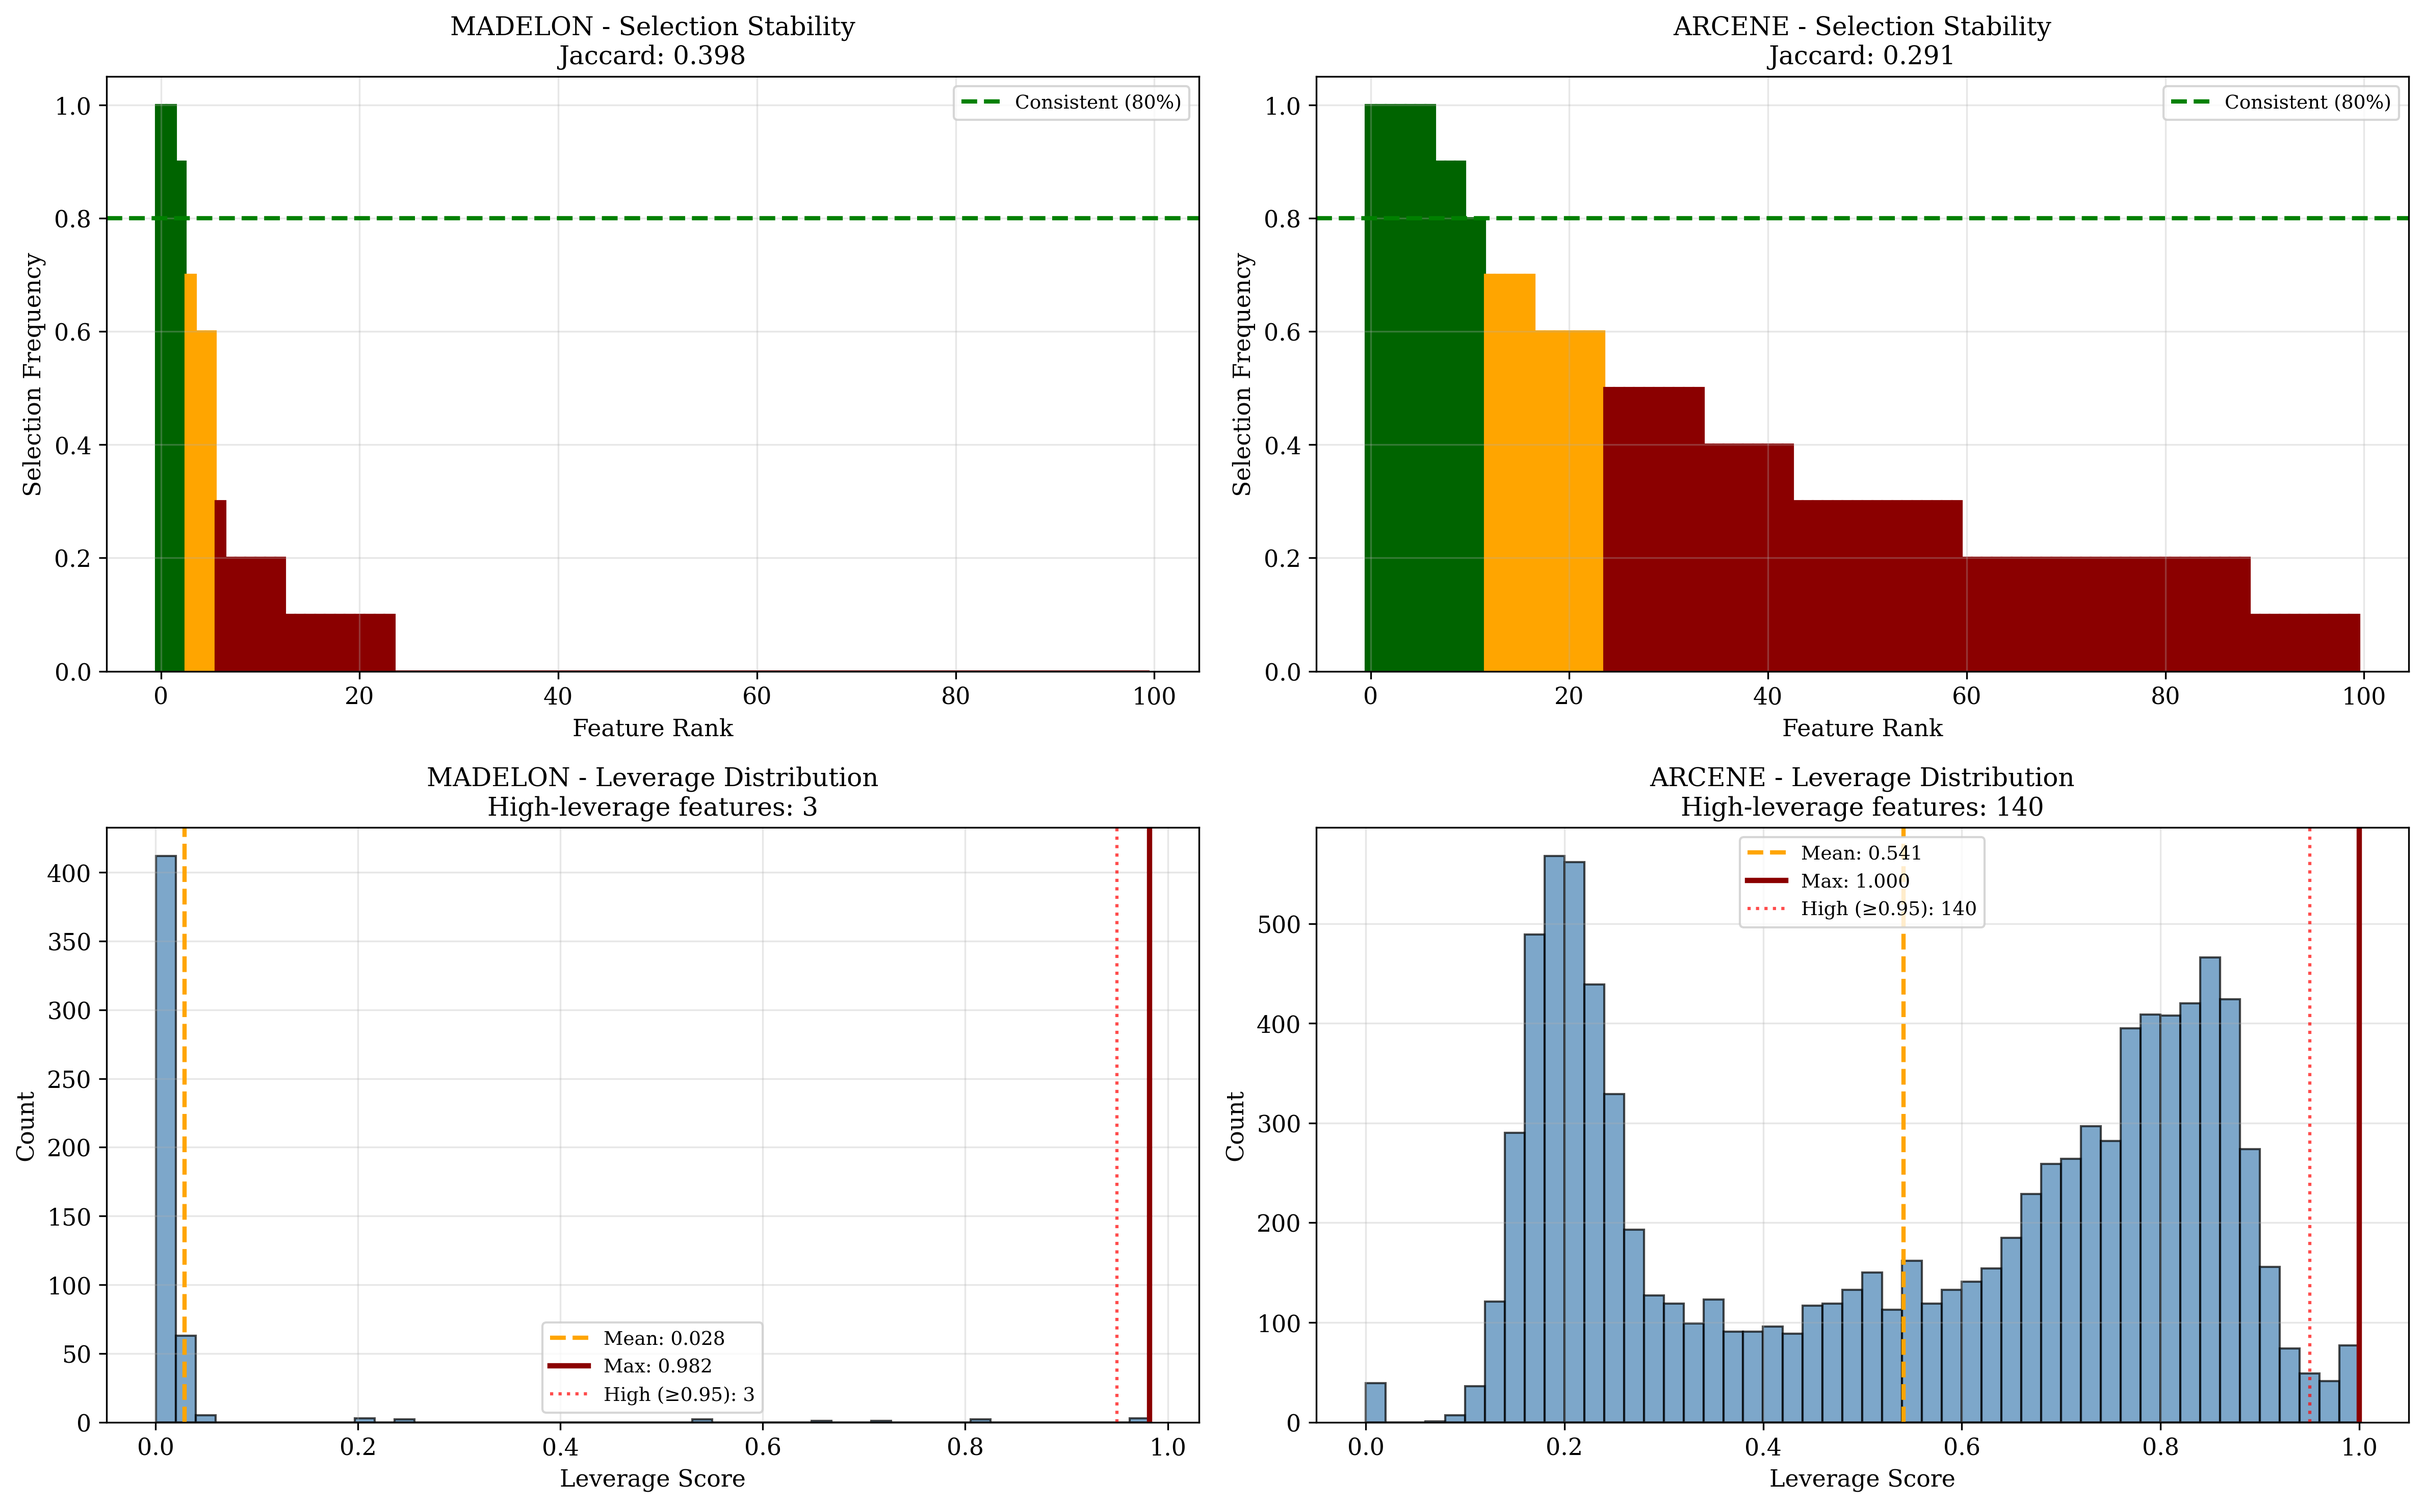
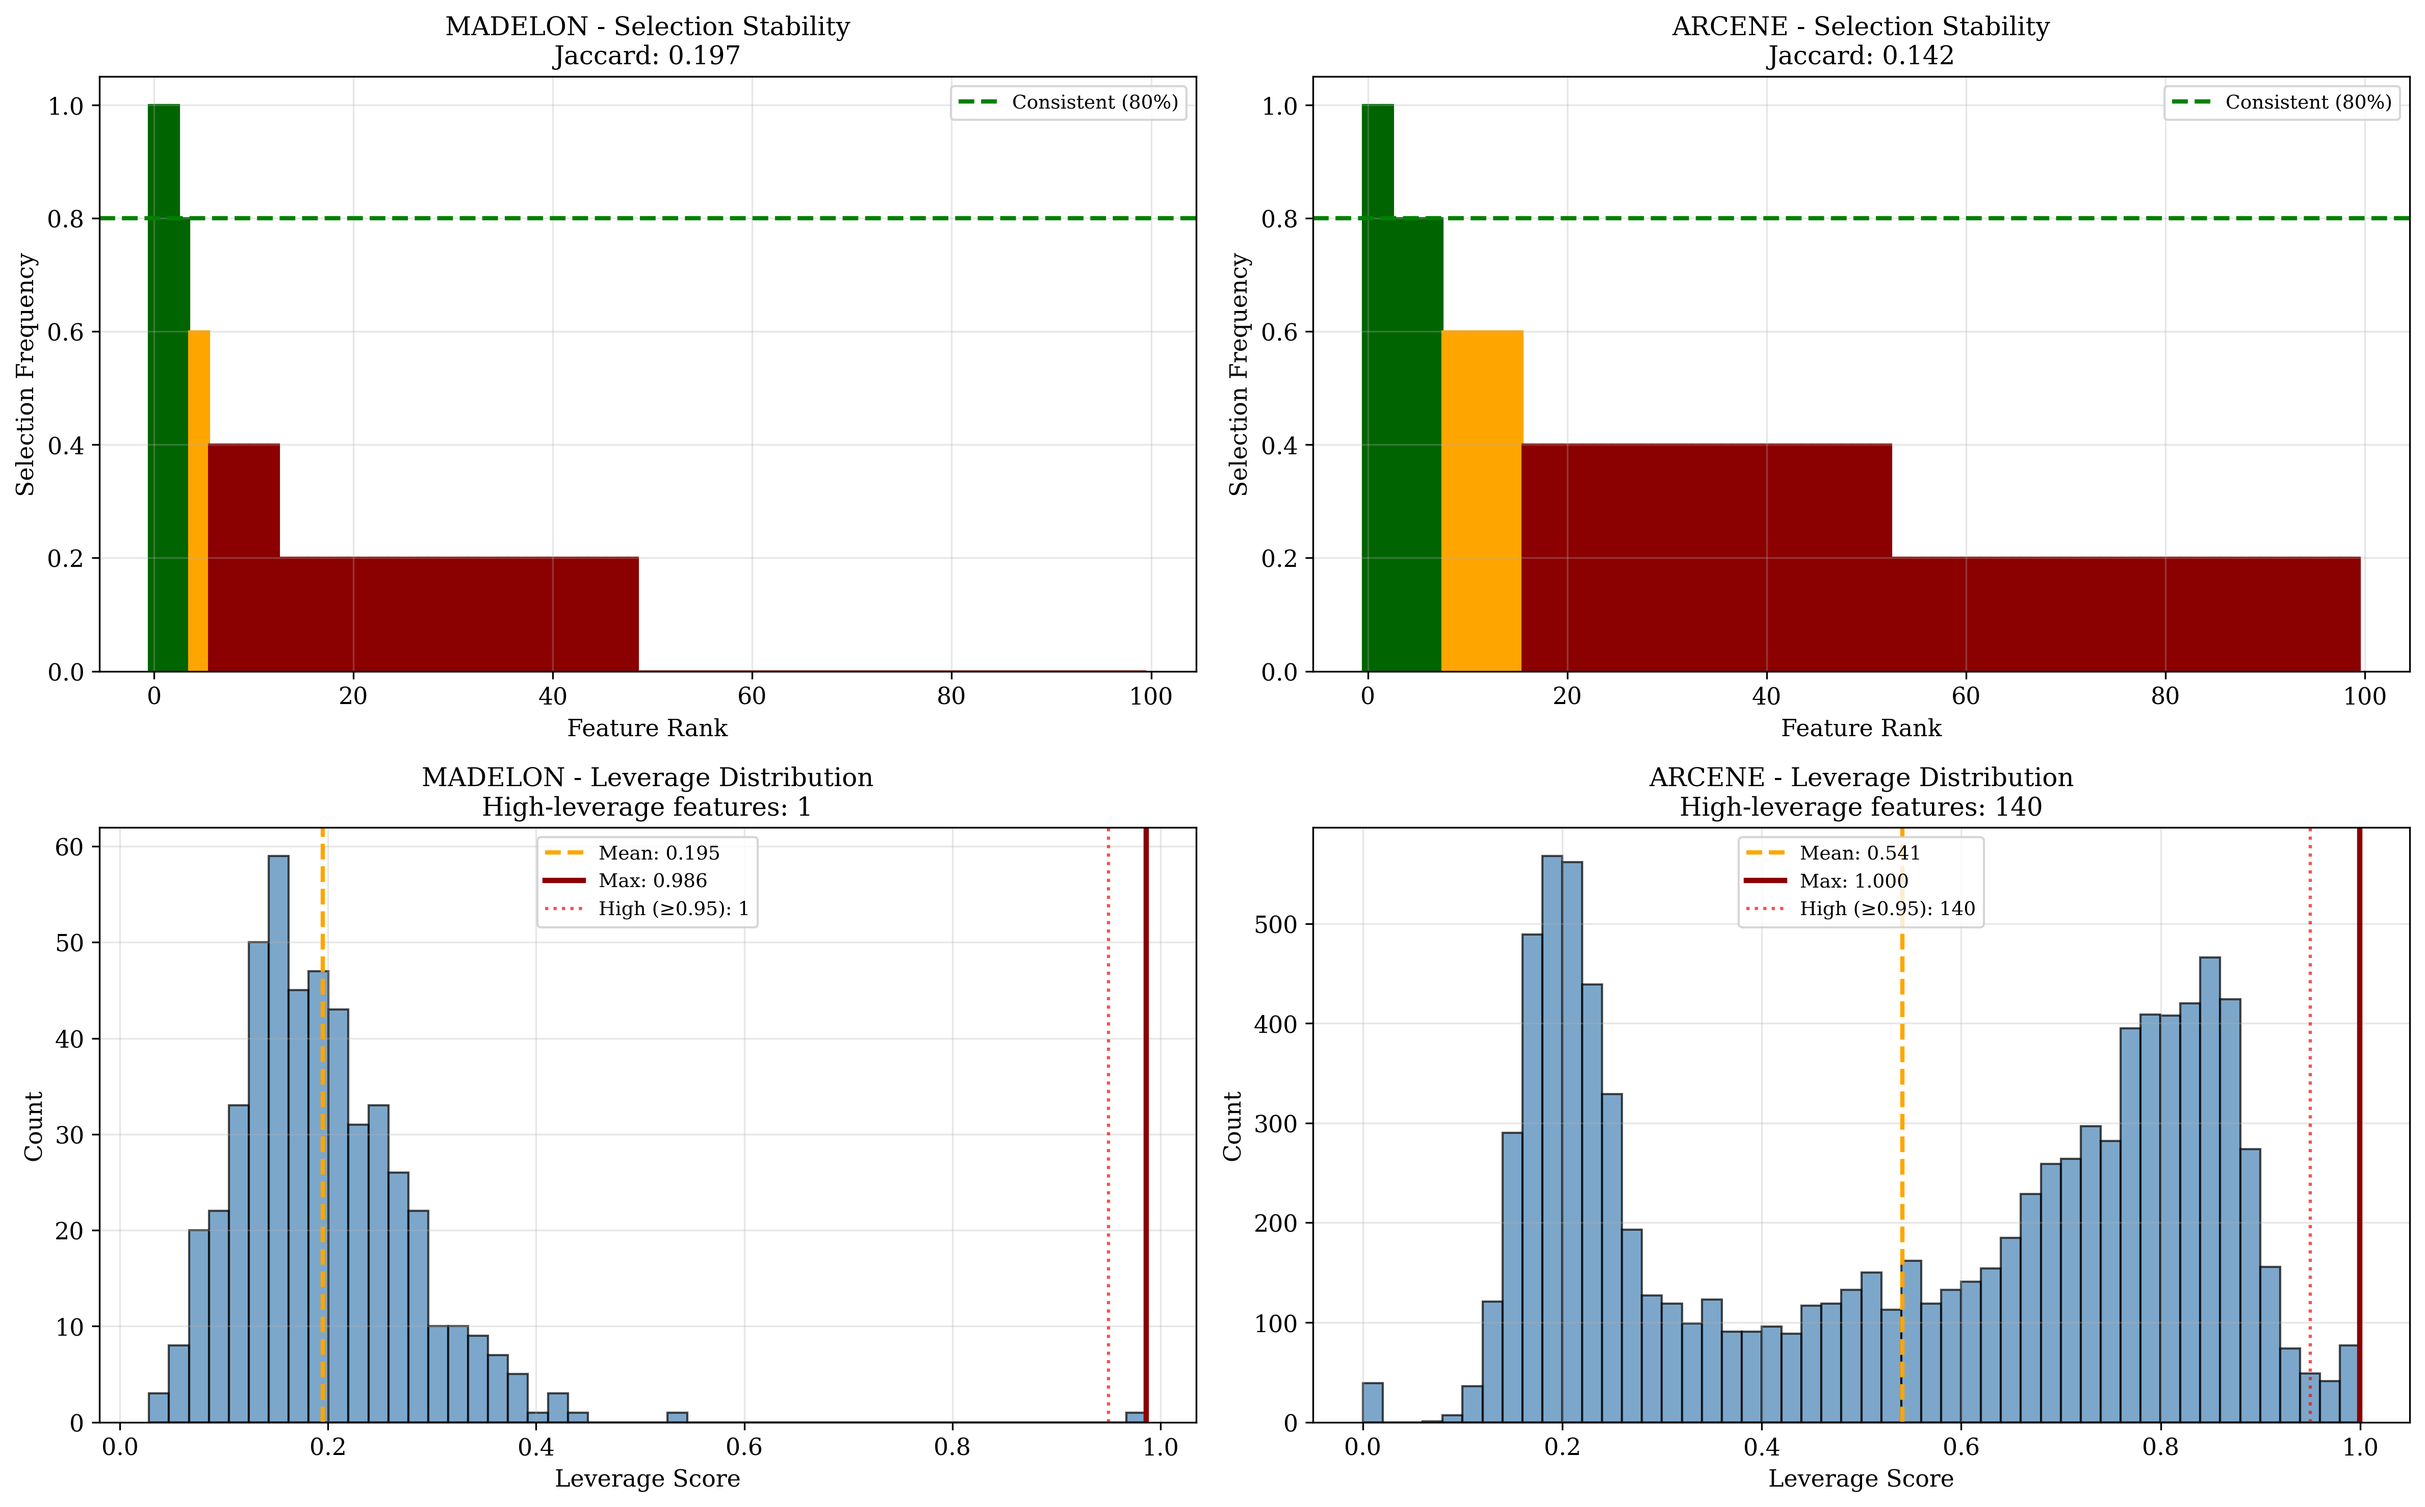
Improved leverage interprability section

diff --git a/experiments/05_leverage_interpretability.py b/experiments/05_leverage_interpretability.py
@@ -16,7 +16,7 @@ Use cases:
 - Debugging unstable feature selection across CV folds
 - Identifying when adding dimensions hurts (inactive noise with high leverage)
 
-Datasets are found/added from: https://www.openml.org/
+Datasets are found at and can be added from: https://www.openml.org/
 """
 
 import logging 
@@ -54,25 +54,58 @@ logging.basicConfig(
 logger = logging.getLogger(__name__)
 
 # Experiment parameters
-N_FOLDS = 5  # For stability testing
+N_FOLDS = 5 
+
+# Datasets to test (name, max_samples, task_type)
+DATASETS = [
+    ('madelon', 50, 'classification'),  # n=50, d=500 (moderate-dim)
+    ('arcene', 200, 'classification'),  # n=200, d=10000 (very high-dim)
+]
 
 
-def load_dataset(dataset_name: str, n_samples: int = None):
+def load_dataset(dataset_name: str, n_samples: int = None, task_type: str = 'classification'):
     """
     Load dataset for supervised learning task.
     
-    Both MADELON and ARCENE are binary classification datasets.
-    We use the ground truth labels for LASSO feature selection.
+    Supports both classification and regression from OpenML.
     """
     logger.info(f'Loading {dataset_name}')
     
-    data = fetch_openml(dataset_name, version=1, parser='auto')
-    X = data.data.values if hasattr(data.data, 'values') else data.data
-    y = data.target.values if hasattr(data.target, 'values') else data.target
+    try:
+        data = fetch_openml(dataset_name, version=1, parser='auto')
+        X = data.data.values if hasattr(data.data, 'values') else data.data
+        y = data.target.values if hasattr(data.target, 'values') else data.target
+    except Exception as e:
+        logger.warning(f'  Failed to load {dataset_name}: {e}')
+        return None
     
-    # Convert to binary 0/1 for regression
-    if y.dtype == 'object' or len(np.unique(y)) == 2:
-        y = (y == np.unique(y)[0]).astype(float)
+    # Handle classification vs regression
+    if task_type == 'classification':
+        # Convert to binary 0/1
+        if y.dtype == 'object' or len(np.unique(y)) <= 10:
+            # For multi-class, use one-vs-rest for first class
+            y = (y == np.unique(y)[0]).astype(float)
+    else:
+        # For regression, convert to float
+        try:
+            y = y.astype(float)
+        except:
+            logger.warning(f'  Could not convert target to float')
+            return None
+    
+    # Remove NaN/inf from both X and y
+    try:
+        X = np.array(X, dtype=float)
+        y = np.array(y, dtype=float)
+        valid_mask = np.isfinite(X).all(axis=1) & np.isfinite(y)
+        X, y = X[valid_mask], y[valid_mask]
+        
+        if len(X) < 50:
+            logger.warning(f'  Too few valid samples: {len(X)}')
+            return None
+    except Exception as e:
+        logger.warning(f'  Data conversion failed: {e}')
+        return None
     
     # Subsample if requested
     if n_samples and len(X) > n_samples:
@@ -86,22 +119,23 @@ def load_dataset(dataset_name: str, n_samples: int = None):
     y = (y - np.mean(y)) / np.std(y)
     
     class Dataset:
-        def __init__(self, A, y):
+        def __init__(self, A, y, task):
             self.A = A
             self.y = y
+            self.task = task
     
     n, d = X.shape
-    logger.info(f'Loaded: n={n}, d={d}')
-    logger.info(f'Task: Binary classification (as regression)')
+    logger.info(f'  Loaded: n={n}, d={d}')
+    logger.info(f'  Task: {task_type}')
     
-    return Dataset(X, y)
+    return Dataset(X, y, task_type)
 
 
 def stability_validation(n_folds: int = 5):
     """
     Test hypothesis: High leverage => severe instability.
     
-    Compare MADELON vs ARCENE on real binary classification tasks.
+    Compare on different datasets and task types.
     """
     logger.info('\n' + '='*80)
     logger.info('Feature Selection Stability Analysis')
@@ -190,23 +224,18 @@ def stability_validation(n_folds: int = 5):
     # Test both datasets
     results = []
     
-    try:
-        madelon = load_dataset('madelon', n_samples=500)
-        results.append(test_stability('MADELON', madelon, n_folds=n_folds))
-    except Exception as e:
-        logger.warning(f'Failed MADELON: {e}')
-    try:
-        arcene = load_dataset('arcene', n_samples=200)
-        results.append(test_stability('ARCENE', arcene, n_folds=n_folds))
-    except Exception as e:
-        logger.warning(f'Failed ARCENE: {e}')
-    if len(results) != 2:
-        logger.warning('Could not test both datasets')
-        return
+    for dataset_name, max_samples, task_type in DATASETS:
+        try:
+            design = load_dataset(dataset_name, n_samples=max_samples, task_type=task_type)
+            if design is not None:
+                results.append(test_stability(dataset_name, design, n_folds=n_folds))
+        except Exception as e:
+            logger.warning(f'Failed {dataset_name}: {e}')
     
-    # df creation
     df = pd.DataFrame([{
         'Dataset': r['dataset'],
+        'n': r['n'],
+        'd': r['d'],
         'Mean Leverage': r['mean_leverage'],
         'High Lev Count': r['high_leverage_count'],
         'Jaccard': r['stability'],
@@ -215,7 +244,7 @@ def stability_validation(n_folds: int = 5):
     
     # Plots
     fig = plt.figure(figsize=(16, 10))
-    for idx, result in enumerate(results):
+    for idx, result in enumerate(results[:2]):  # Limit to first 2 datasets for comparison
         # Top: Selection frequency
         ax_freq = plt.subplot(2, 2, idx + 1)
         freq = result['freq']
